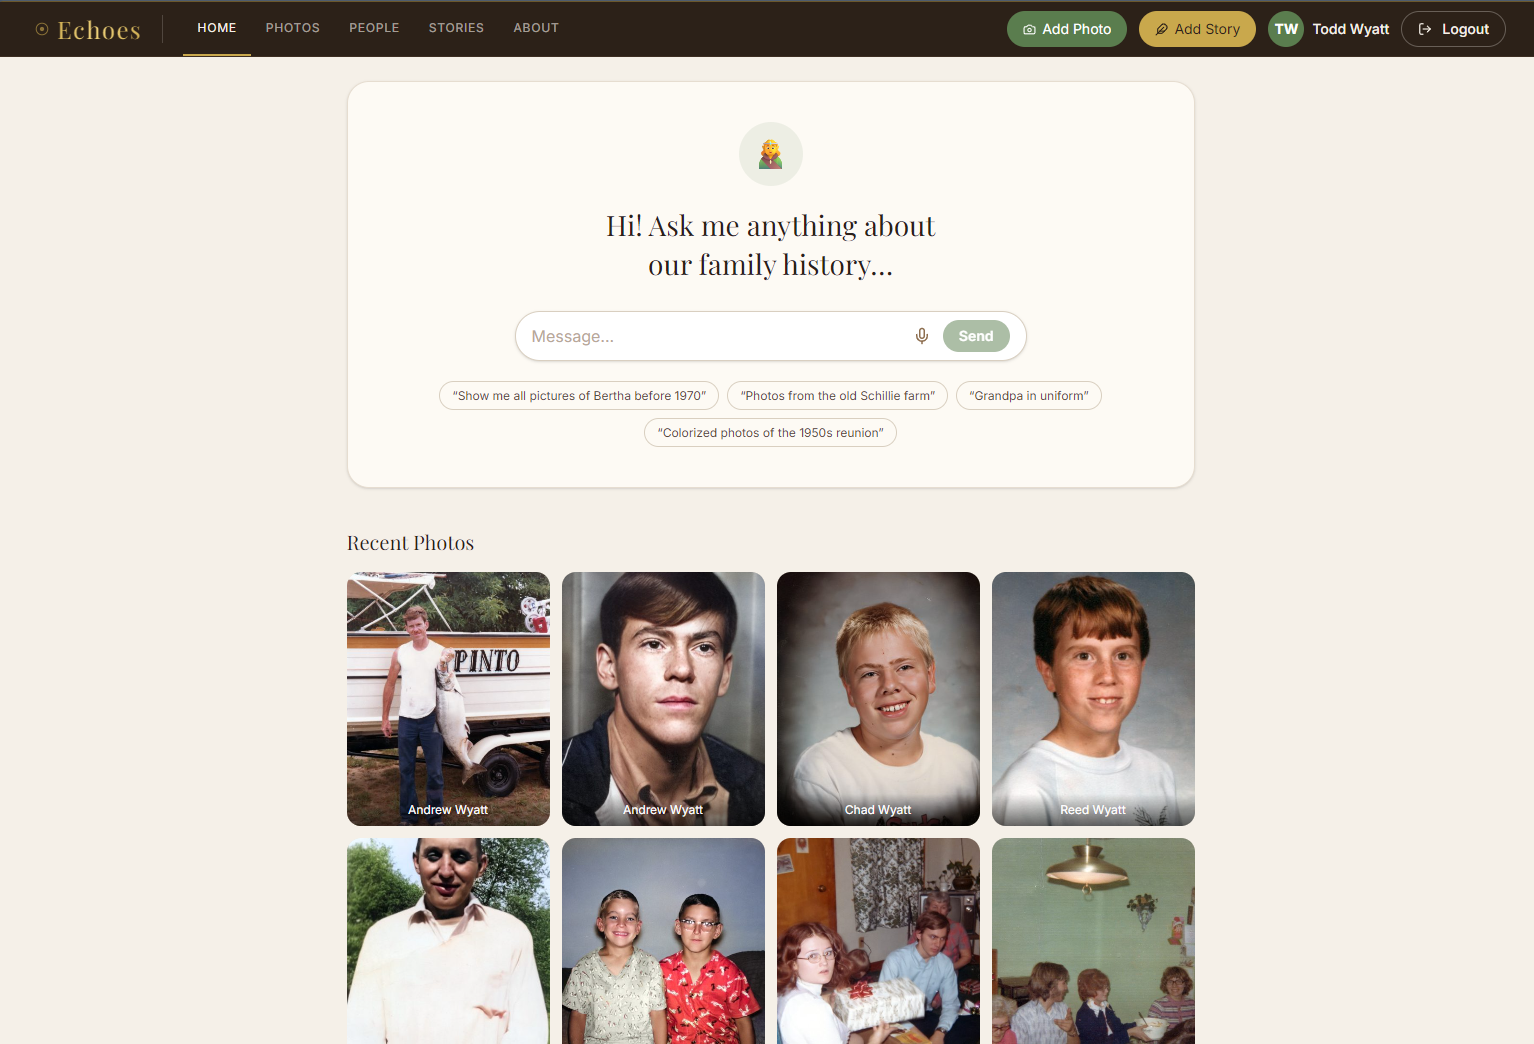
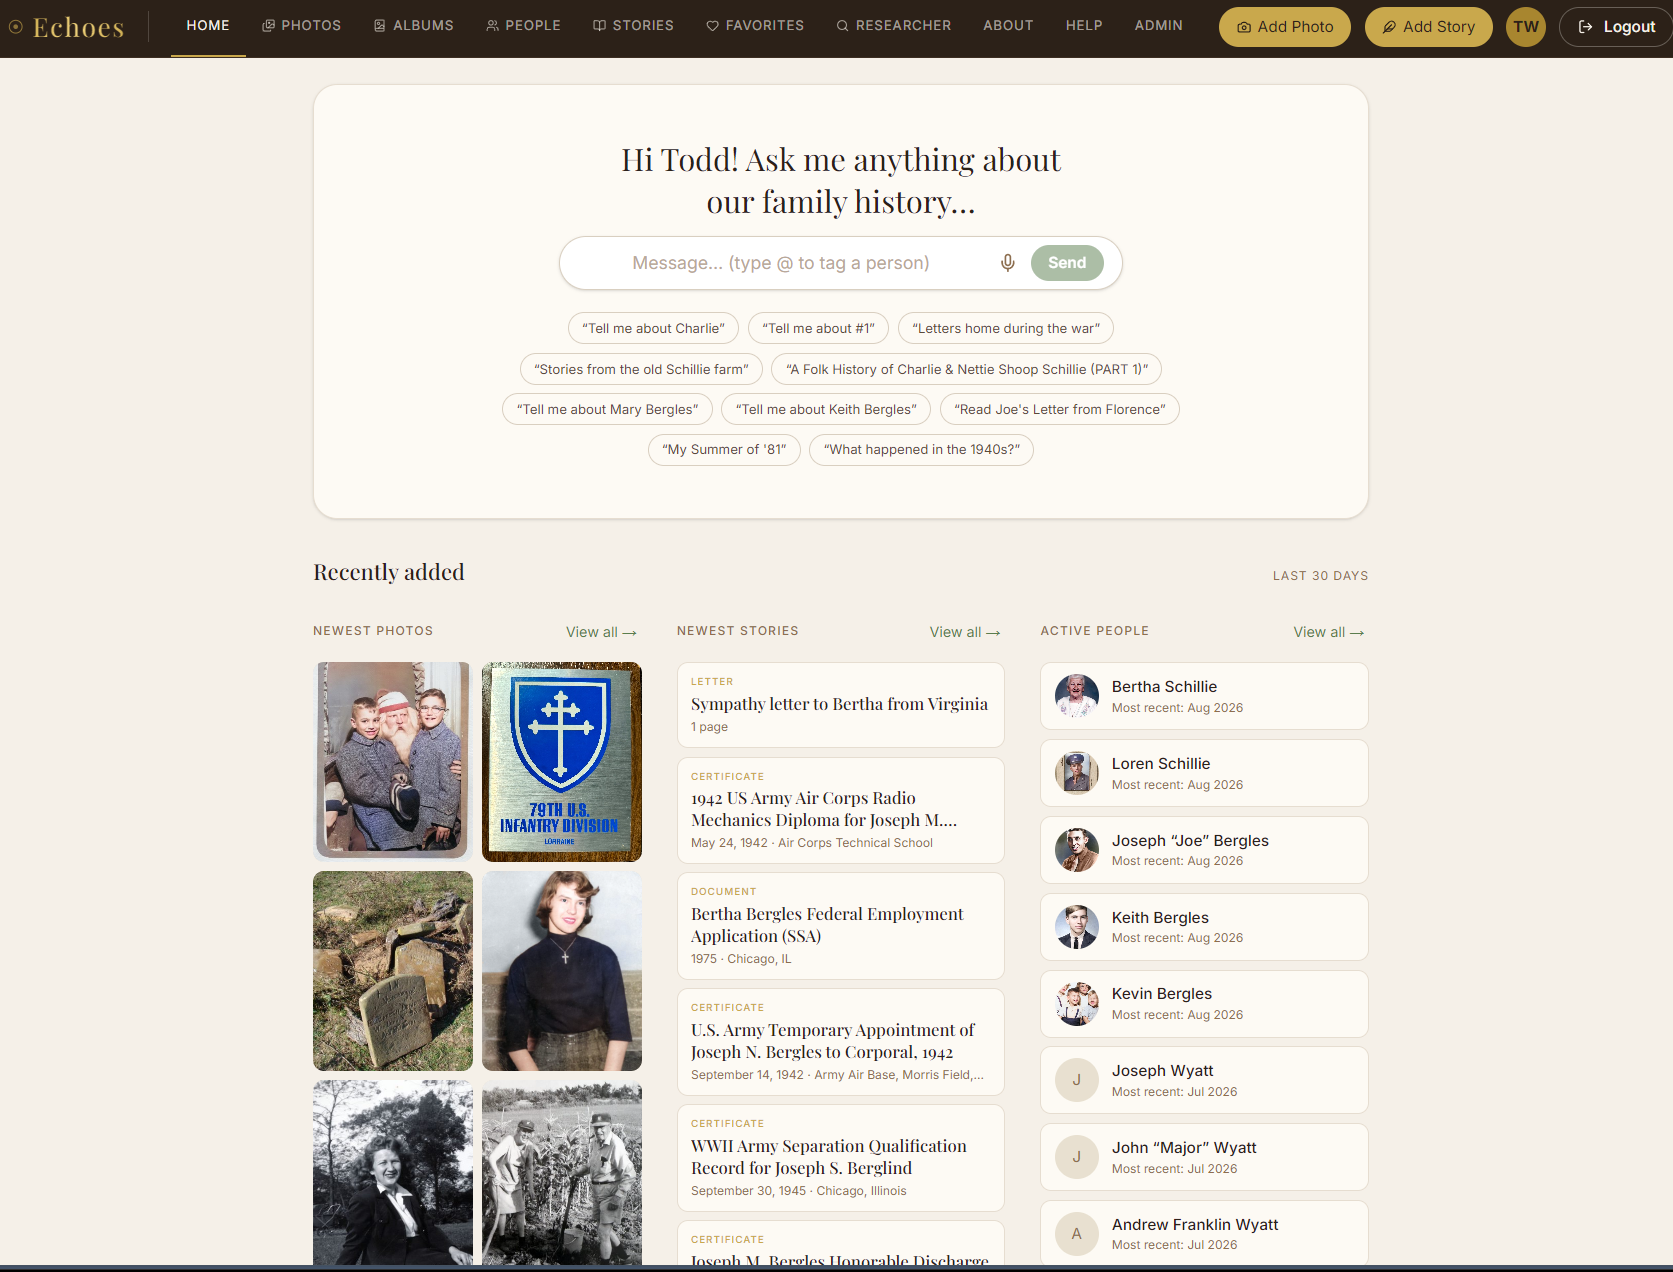
Échoes: refresh hero, photo archive, and person profile screenshots; drop the family graph tile
New home view replaces the hero and homepage card thumbnail. The photo
archive tile now shows the Theme filter row and its caption mentions it.
The person profile tile shows the biography, counts, and relationships
grouped by generation. The family graph tile and its image are removed.

Closes #27

diff --git a/src/data/portfolio.ts b/src/data/portfolio.ts
@@ -54,9 +54,9 @@ const aviaryHero: Screenshot = {
 
 const echoesThumbnail: Screenshot = {
   src: "/images/echoes-mainpage.png",
-  alt: "Échoes home view of the AI family archive",
-  width: 1534,
-  height: 1044,
+  alt: "Échoes home view: the ask-me-anything box with suggested prompts, and the recently added photos, stories, and people",
+  width: 1673,
+  height: 1272,
 };
 
 const hearthHero: Screenshot = {
@@ -204,12 +204,12 @@ export const projects: Project[] = [
       },
       {
         src: "/images/echoes/2-photos.png",
-        alt: "Échoes photo archive, a grid of vintage family photos with era and family filter pills and a search bar",
+        alt: "Échoes photo archive filtered to the Schillie family, with family, era, and theme filter pills, a search box, and sort controls",
         title: "The photo archive",
         caption:
-          "Every photo, filtered by decade and family branch. Each one is searchable by what is in it and who is in it, not just by its filename.",
-        width: 1396,
-        height: 1183,
+          "Every photo, filtered by family branch, decade, or theme, from gatherings and portraits to keepsakes and everyday moments. Each one is also searchable by what is in it and who is in it.",
+        width: 1503,
+        height: 1139,
       },
       {
         src: "/images/echoes/3-people.png",
@@ -222,12 +222,12 @@ export const projects: Project[] = [
       },
       {
         src: "/images/echoes/4-person.png",
-        alt: "Échoes person profile for Bertha Schillie, with a generated biography, photo appearances, and a relationship sidebar",
+        alt: "Échoes person profile for Bertha Schillie, with a generated biography, photo and story counts, her photos, and relationships grouped by generation",
         title: "A person's profile",
         caption:
-          "A single person's page: a generated biography, every photo they appear in, and a sidebar of parents, siblings, and children. Every spelling and nickname resolves to one person.",
-        width: 1349,
-        height: 1185,
+          "A single person's page: a generated biography, every photo and story they appear in, and their relationships grouped by generation, from grandparents through siblings and children. Every spelling and nickname resolves to one person.",
+        width: 1480,
+        height: 1152,
       },
       {
         src: "/images/echoes/5-documents.png",
@@ -246,15 +246,6 @@ export const projects: Project[] = [
           "A 1944 Western Union telegram reporting Pvt. Loren Schillie missing in action, with a summary up top and a toggle between the scanned page and its transcript. Questions asked here are answered from this document alone.",
         width: 1091,
         height: 1184,
-      },
-      {
-        src: "/images/echoes/7-relationship-graph.png",
-        alt: "Échoes family relationship graph laid out by generation, from great-grandparents down to the children's generation",
-        title: "The family graph",
-        caption:
-          "The whole family as a generational graph, from the great-grandparents down to the children. This is the tree the Researcher reads, and the one it proposes additions to for a family member to confirm.",
-        width: 910,
-        height: 717,
       },
     ],
     tags: ["Next.js", "Supabase", "pgvector", "Agents", "xAI / Grok"],
